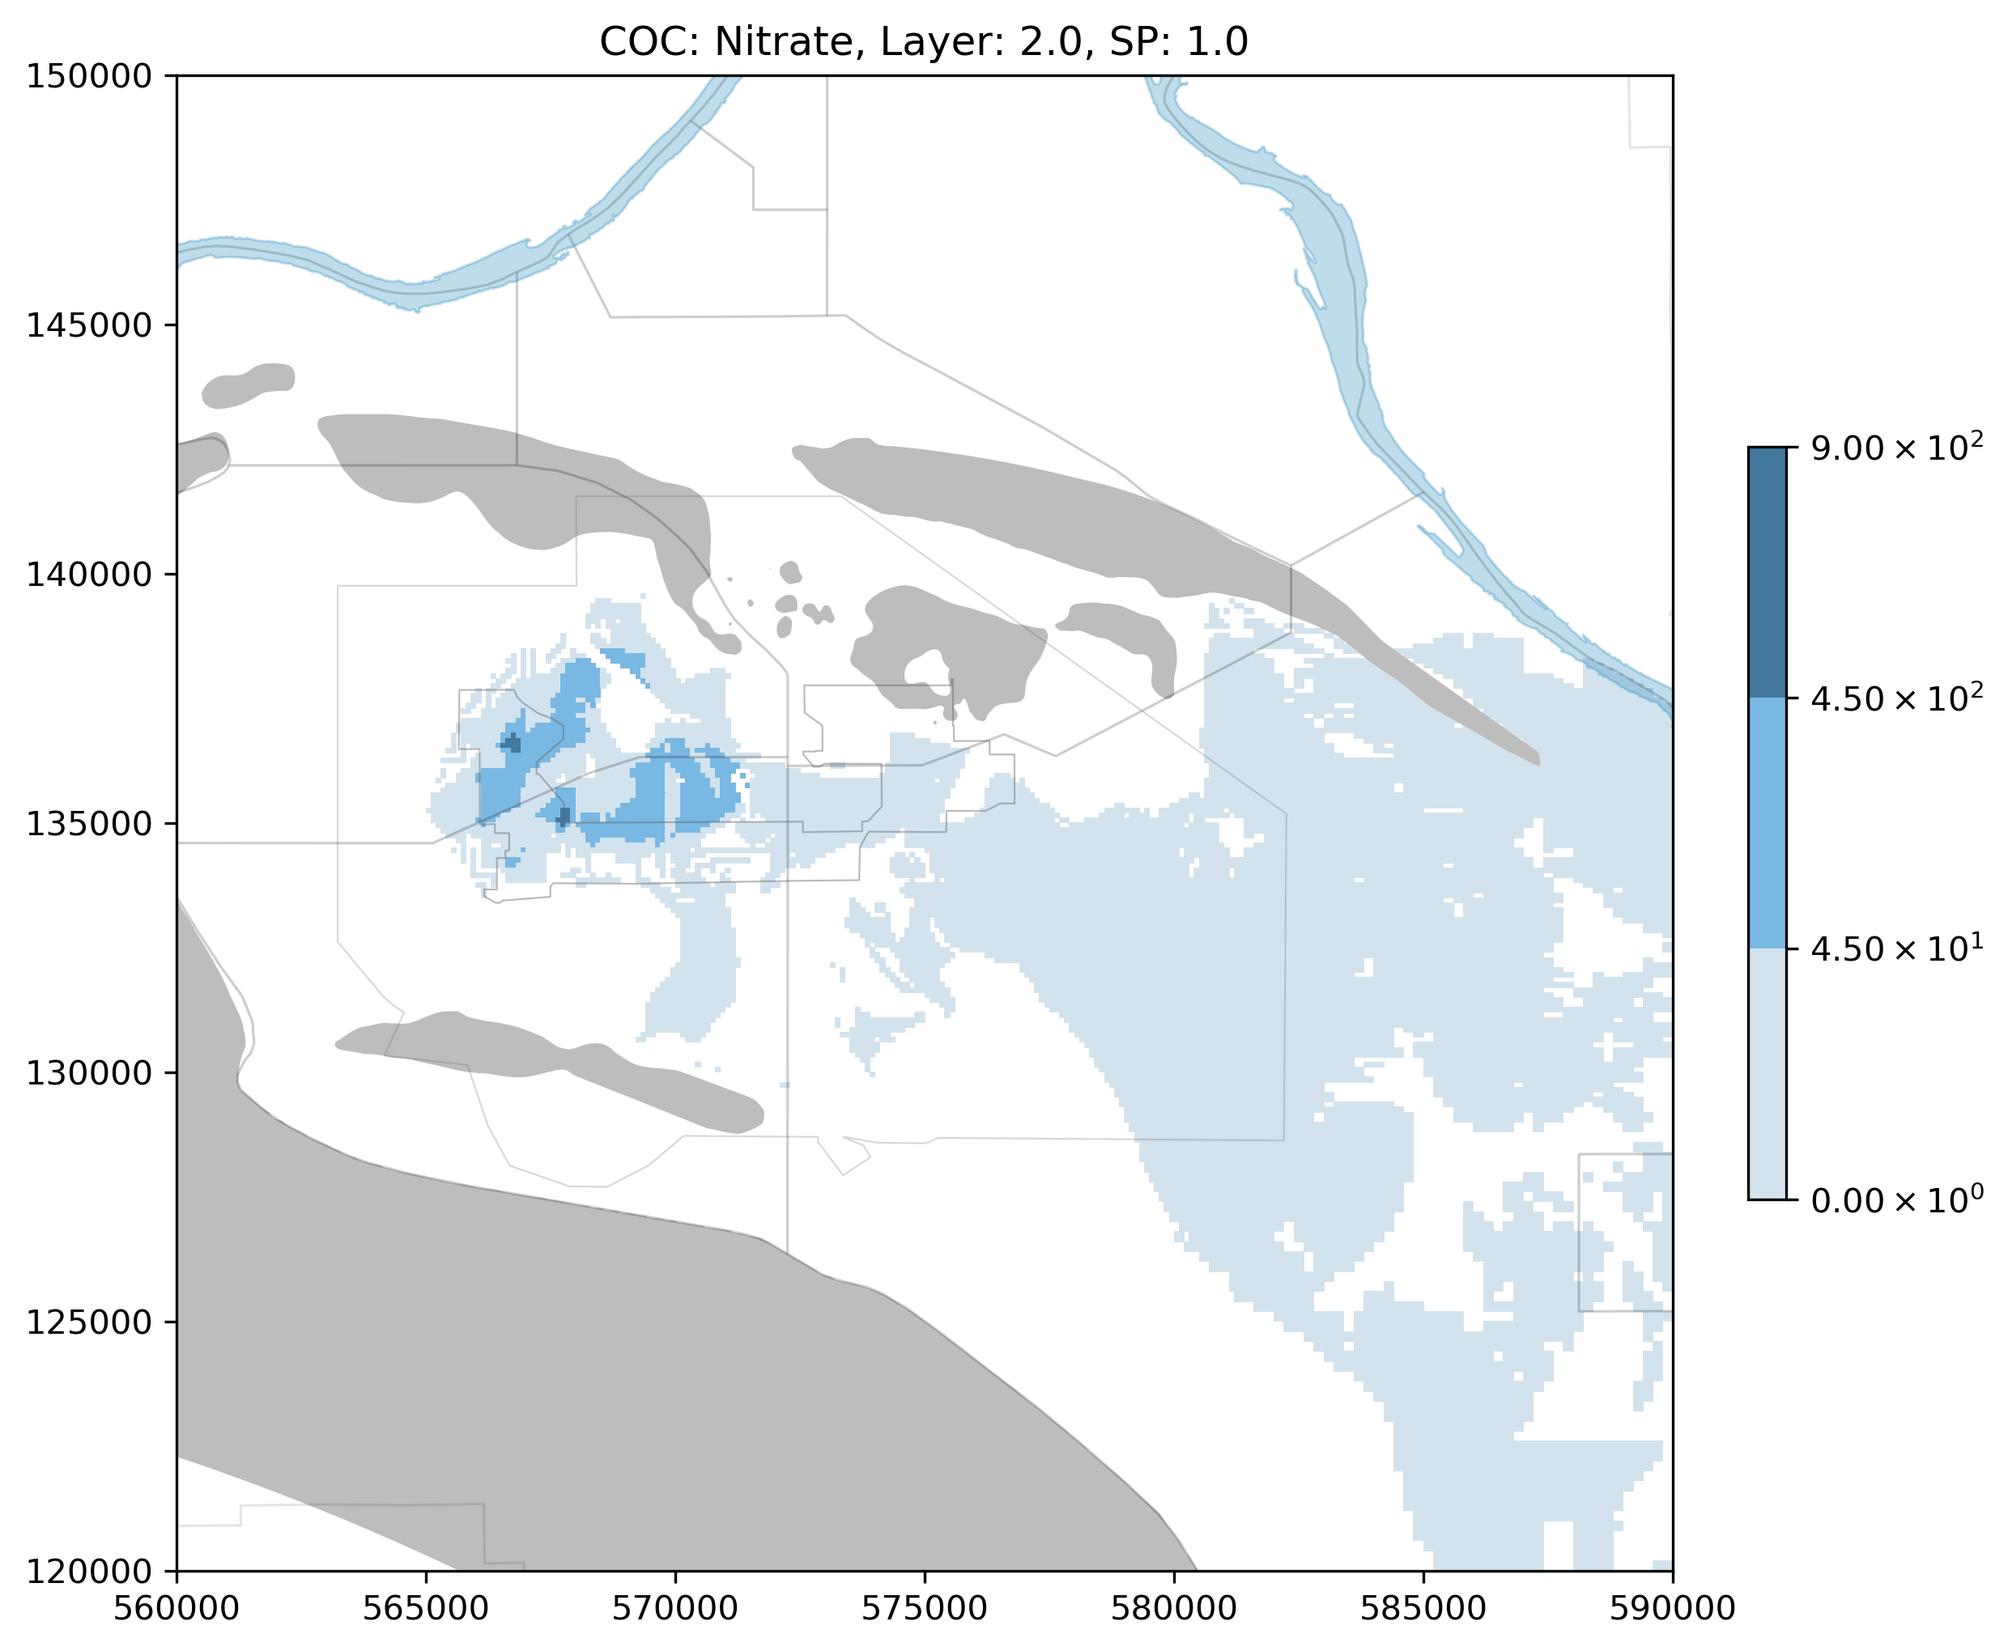
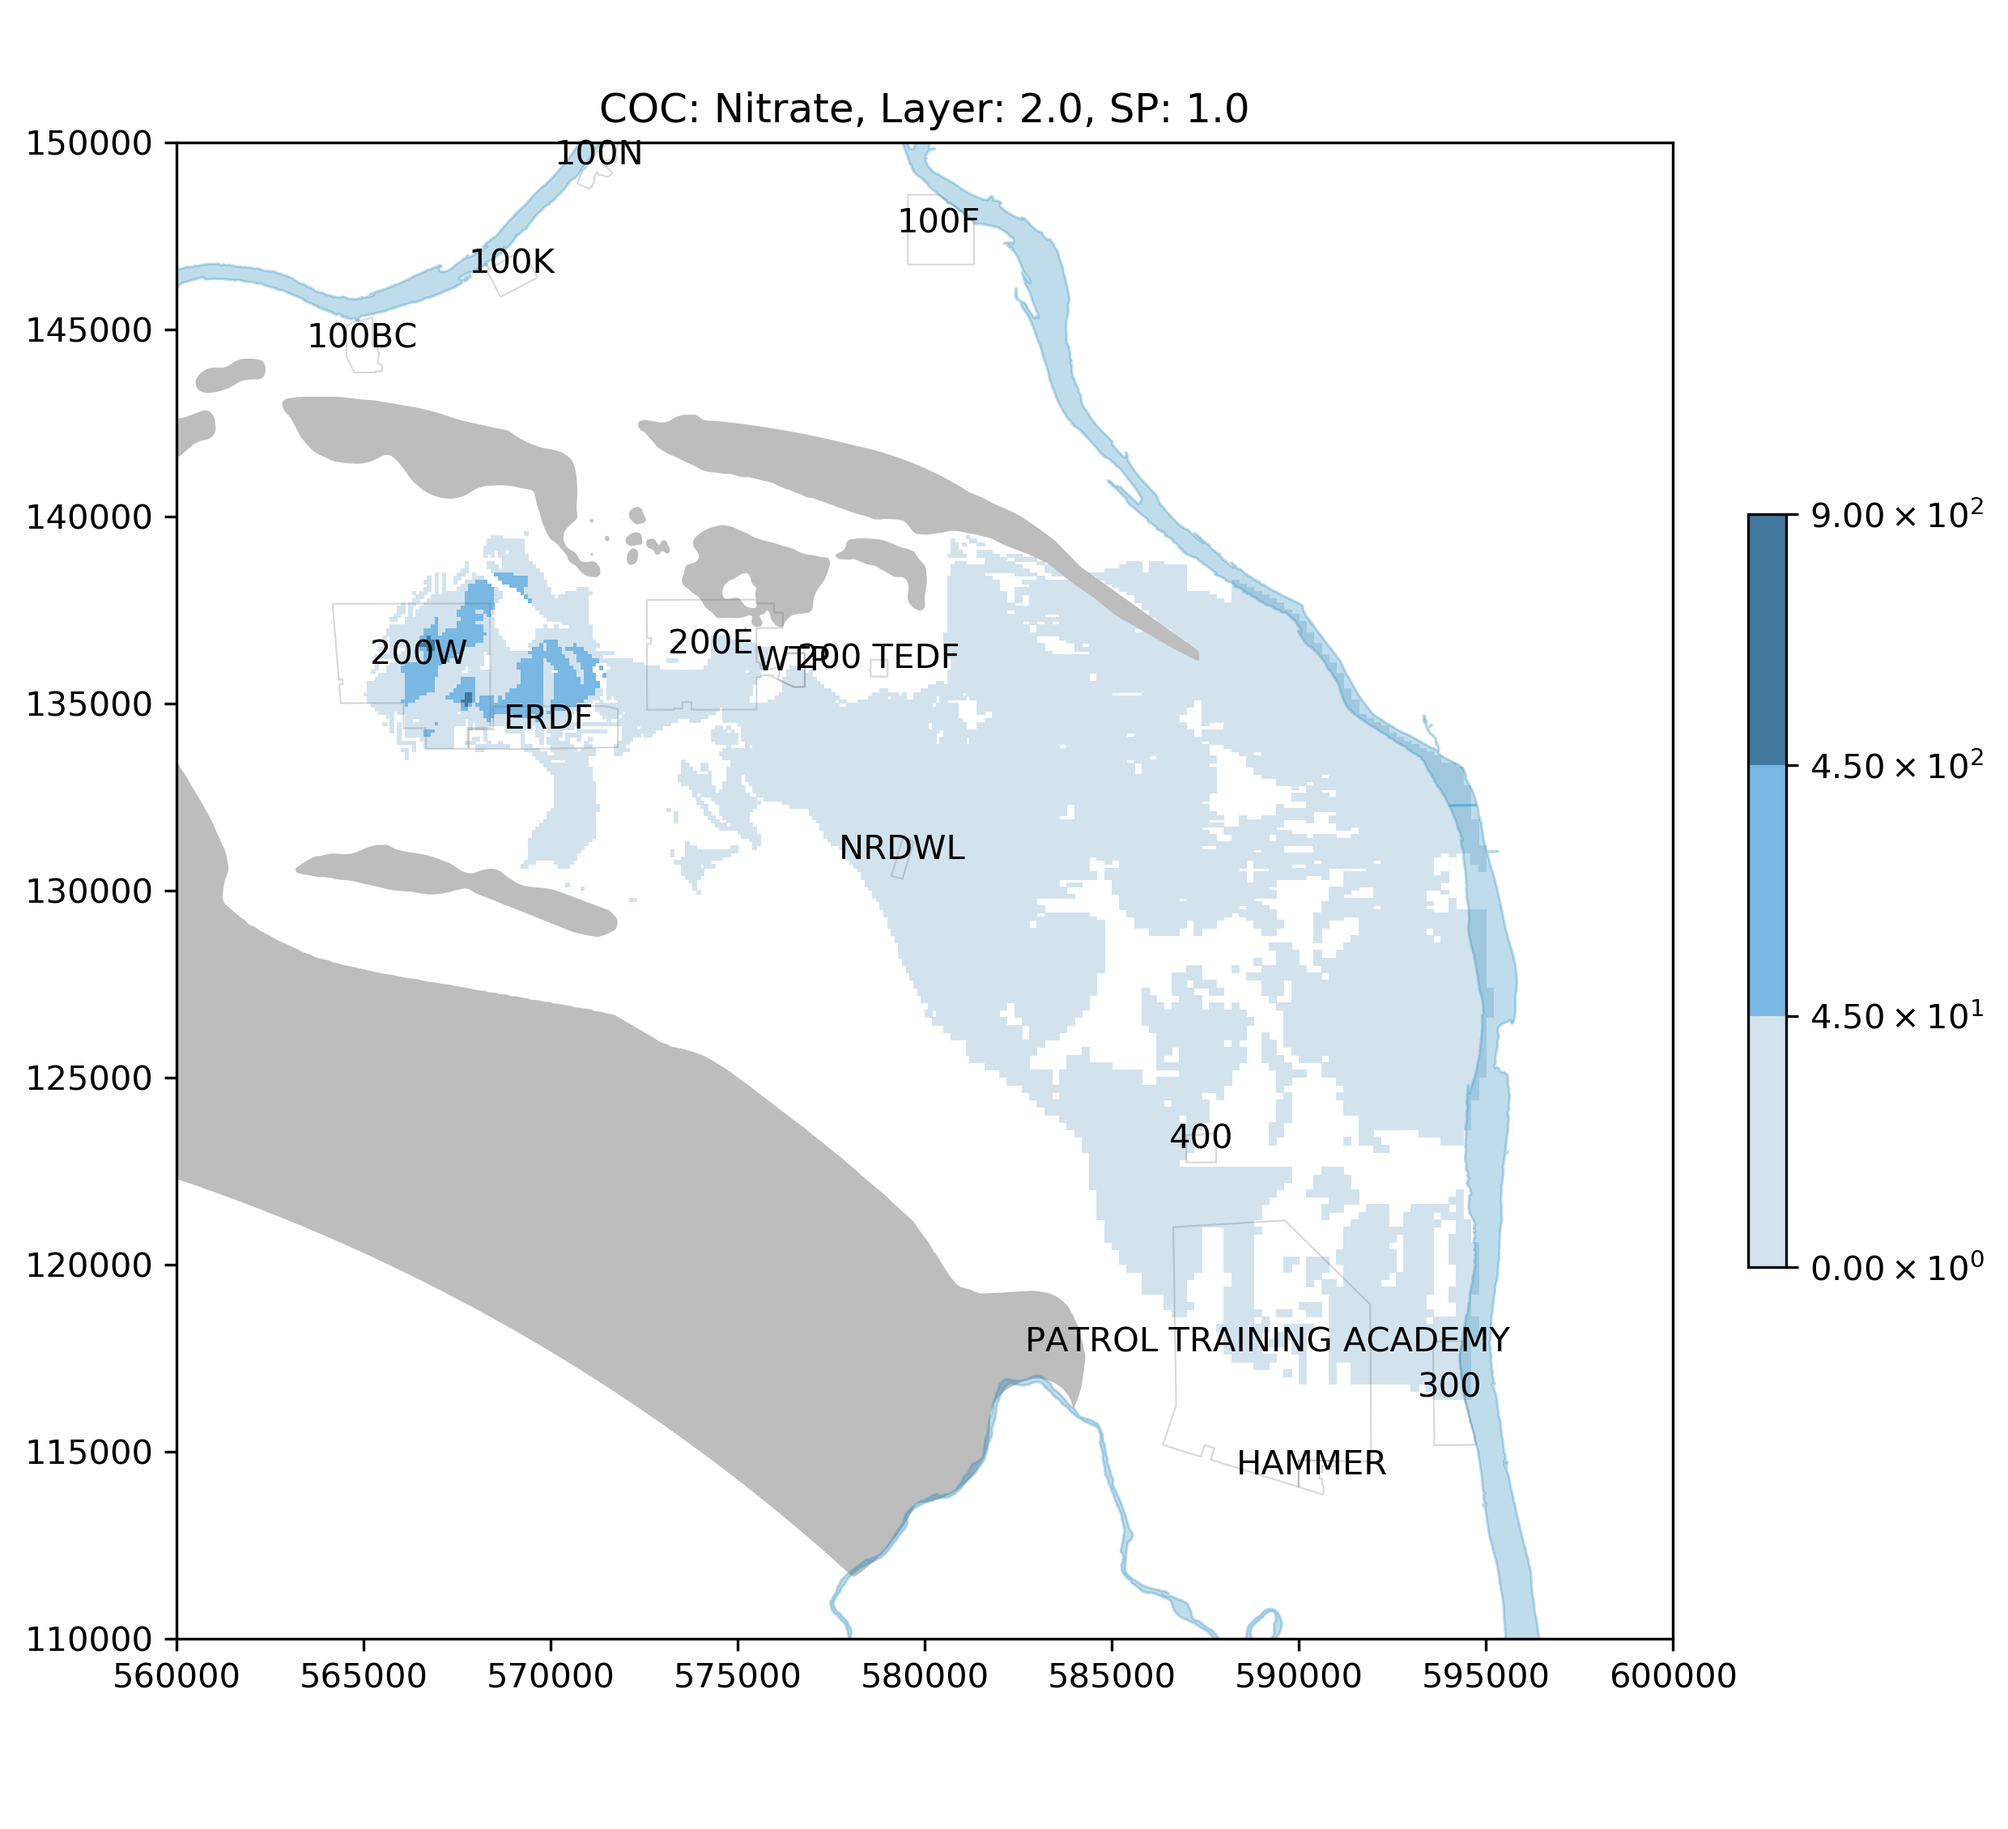
minor rev

diff --git a/main.py b/main.py
@@ -48,7 +48,7 @@ def read_ucn(ifile_ucn):
     return data, ntimes, nlay, nr, nc, times, ucnobj
 
 
-def generate_map1(arr, ofile, ptitle, levels, colors, map_type):
+def generate_map1(arr, ofile, ptitle, levels, colors, xy):
     '''
         - Generate 2D plume maps
         - Last updated on 3/15/2022 by hpham
@@ -78,7 +78,7 @@ def generate_map1(arr, ofile, ptitle, levels, colors, map_type):
                    edgecolor='none', zorder=1, legend=True, label='Basalt Above Water Table')
 
     # Plot 3 - GWIA
-    show_gwia = True
+    show_gwia = False
     if show_gwia:
         ifile_zone = f'input/shp_files/GWIA_2017.shp'
         # ifile_zone = f'input/GIS/hss/test_domain.shp'
@@ -88,15 +88,24 @@ def generate_map1(arr, ofile, ptitle, levels, colors, map_type):
         # zones.apply(lambda x: ax.annotate(s=x.GWIA_NAME,
         #                                  xy=x.geometry.centroid.coords[0], ha='center'), axis=1)
     # Plot 4 - Inner_and_Outer_Boundary
-    show_Inner_and_Outer_Boundary = True
+    show_Inner_and_Outer_Boundary = False
     if show_Inner_and_Outer_Boundary:
         ifile_zone = f'input/shp_files/Inner_and_Outer_Boundary.shp'
-        # ifile_zone = f'input/GIS/hss/test_domain.shp'
+        zones = gpd.read_file(ifile_zone)
+        # zones.plot(ax=ax, alpha=0.25, linewidth=0.5, color='none',
+        #           edgecolor='#636363', zorder=1, legend=True, label='Waste Site')  # darkred
+
+    # Plot 5 - show former operational areas (e.g. 200W, 200E, etc.)
+    show_OU = True
+    if show_OU:
+        ifile_zone = f'input/shp_files/bdjurdsv.shp'
         zones = gpd.read_file(ifile_zone)
         zones.plot(ax=ax, alpha=0.25, linewidth=0.5, color='none',
                    edgecolor='#636363', zorder=1, legend=True, label='Waste Site')  # darkred
+        zones.apply(lambda x: ax.annotate(s=x.NAME,
+                                          xy=x.geometry.centroid.coords[0], ha='center'), axis=1)
 
-    # Plot 5 - show River
+    # Plot 6 - show River
     show_river = True
     if show_river:
         ifile_zone = f'input/shp_files/River.shp'
@@ -104,7 +113,7 @@ def generate_map1(arr, ofile, ptitle, levels, colors, map_type):
         # print(zones.head())
         zones.plot(ax=ax, alpha=0.3, linewidth=0.75, color='#2b8cbe',
                    edgecolor='#2b8cbe', zorder=2, legend=True, label='River')
-    # Plot
+    # Plot 7
     show_mcali_zone = False
     if show_mcali_zone:
         ifile_zone = f'input/shp_files/P2Rv831_focus_calibration_area.shp'
@@ -113,7 +122,7 @@ def generate_map1(arr, ofile, ptitle, levels, colors, map_type):
         zones.plot(ax=ax, alpha=0.75, linewidth=1.25, color='none',
                    edgecolor='blue', zorder=2, legend=True, label='Focused_MCali_Zone')
 
-    # Plot 6 - show AWLN
+    # Plot 8 - show AWLN
     show_AWLN = False
     if show_AWLN:
         ifile_zone = f'input/shp_files/AWLN.shp'
@@ -123,7 +132,7 @@ def generate_map1(arr, ofile, ptitle, levels, colors, map_type):
                    edgecolor='#3182bd', zorder=3, legend=True, label='AWLN')
         zones.apply(lambda x: ax.annotate(s=x.Name,
                                           xy=x.geometry.centroid.coords[0], ha='center'), axis=1)
-    # Plot 7 - Show CA Compliance boundary
+    # Plot 9 - Show CA Compliance boundary
     show_CA_Boundary = False
     if show_CA_Boundary:
         ifile = f'input/shp_files/CompositeAnalysis_1998.shp'
@@ -141,12 +150,9 @@ def generate_map1(arr, ofile, ptitle, levels, colors, map_type):
     ax.set_title(ptitle)
     ax.set_xlim([dx.X.min(), dx.X.max()])
     ax.set_ylim([dy.Y.min(), dy.Y.max()])
-    if map_type == 'plume':
-        ax.set_xlim([560000, 590000])  # plume maps
-        ax.set_ylim([120000, 150000])  # plume maps
-    elif map_type == 'hss':
-        ax.set_xlim([562500, 580000])  # hss maps
-        ax.set_ylim([130000, 140000])  # hss maps
+    #
+    ax.set_xlim([xy[0], xy[1]])  # xmin, xmax
+    ax.set_ylim([xy[2], xy[3]])  # ymin, ymax 
 
     # plt.gca().set_aspect('equal', adjustable='box')
     fig.savefig(ofile, dpi=300, transparent=False, bbox_inches='tight')
@@ -222,6 +228,8 @@ if __name__ == "__main__":
 
     list_layer = re.split(',', dfin['name'].loc['list_layer'])
     list_layer = conv_str2num(list_layer)
+    map_dim = re.split(',', dfin['name'].loc['map_dim'])
+    map_dim = conv_str2num(map_dim)
 
     ucn2png = dfin['name'].loc['ucn2png']
     ucn2shp = dfin['name'].loc['ucn2shp']
@@ -233,25 +241,9 @@ if __name__ == "__main__":
             + for a given layers and stress periods, or 
             + for maximum plume footprint (max over all model layers)
         '''
-        # [1] Save to shp file format -----------------------------------------
-        # ofile = os.path.join(work_dir2, 'scripts',
-        #                     'output', 'shp', f'{run_sce}_avg_{var}.shp')
-        # arr2shp(work_dir2, arr, ofile)
-        # print(f'Saved {ofile}\n')
 
         # Create some output folders to write outputs
         create_output_folders()
-
-        # Specify output file name
-        ilay = 2
-        isp = 1
-
-        # Specify plot parameters
-
-        # colors = ['#63b8ff', '#bfefff', '#bab36a',
-        #          '#ffff00', '#f8b186', '#f70fe8']  # hss
-        map_type = 'plume'
-        # levels = [1e2, 1e3, 1e4, 1e5, 1e6, 1e9, 1e10, 1e11]
 
         # Read ucn file using flopy -------------------------------------------
         data, ntimes, nlay, nr, nc, times, ucnobj = read_ucn(ucn_file)
@@ -286,5 +278,5 @@ if __name__ == "__main__":
 
                 # Map array arr -----------------------------------------------
                 generate_map1(arr, ofile_png, ptitle, contour_levels,
-                              colors, map_type)
+                              colors, map_dim)
                 print(f'Saved {ofile_png}\n')
